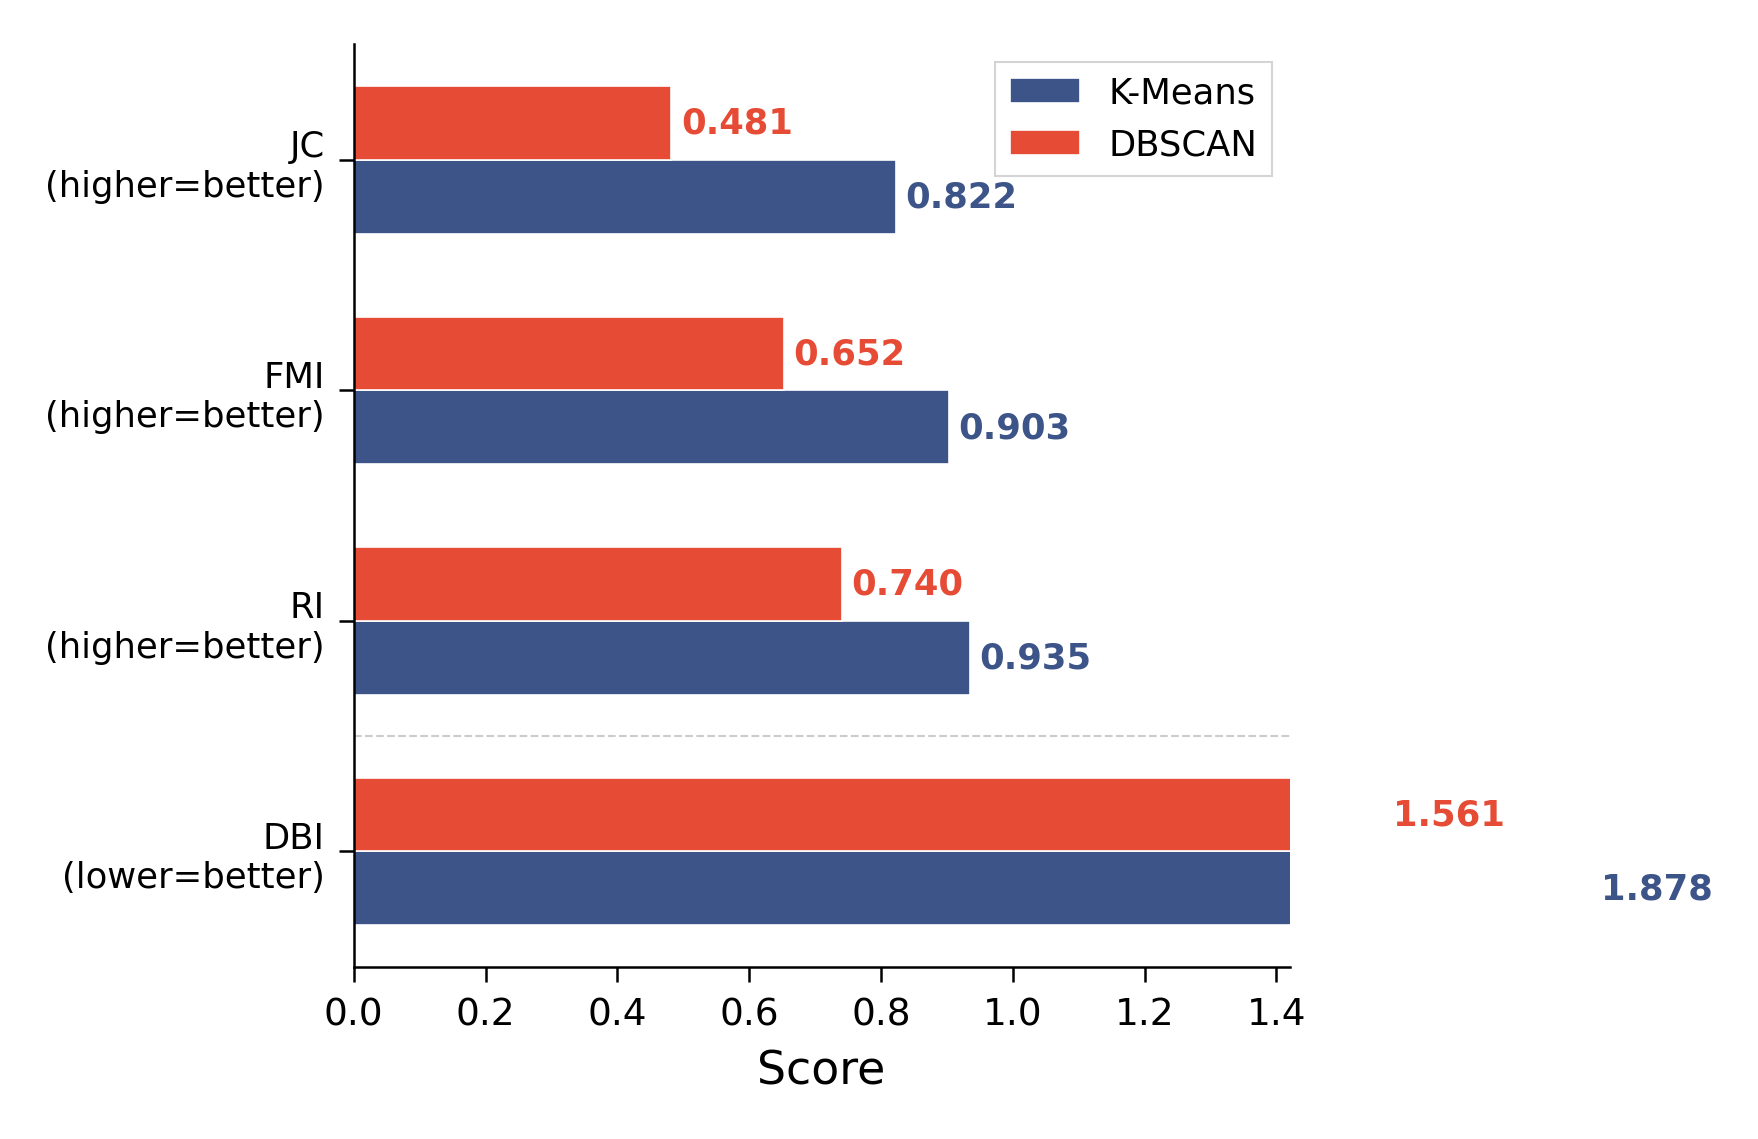
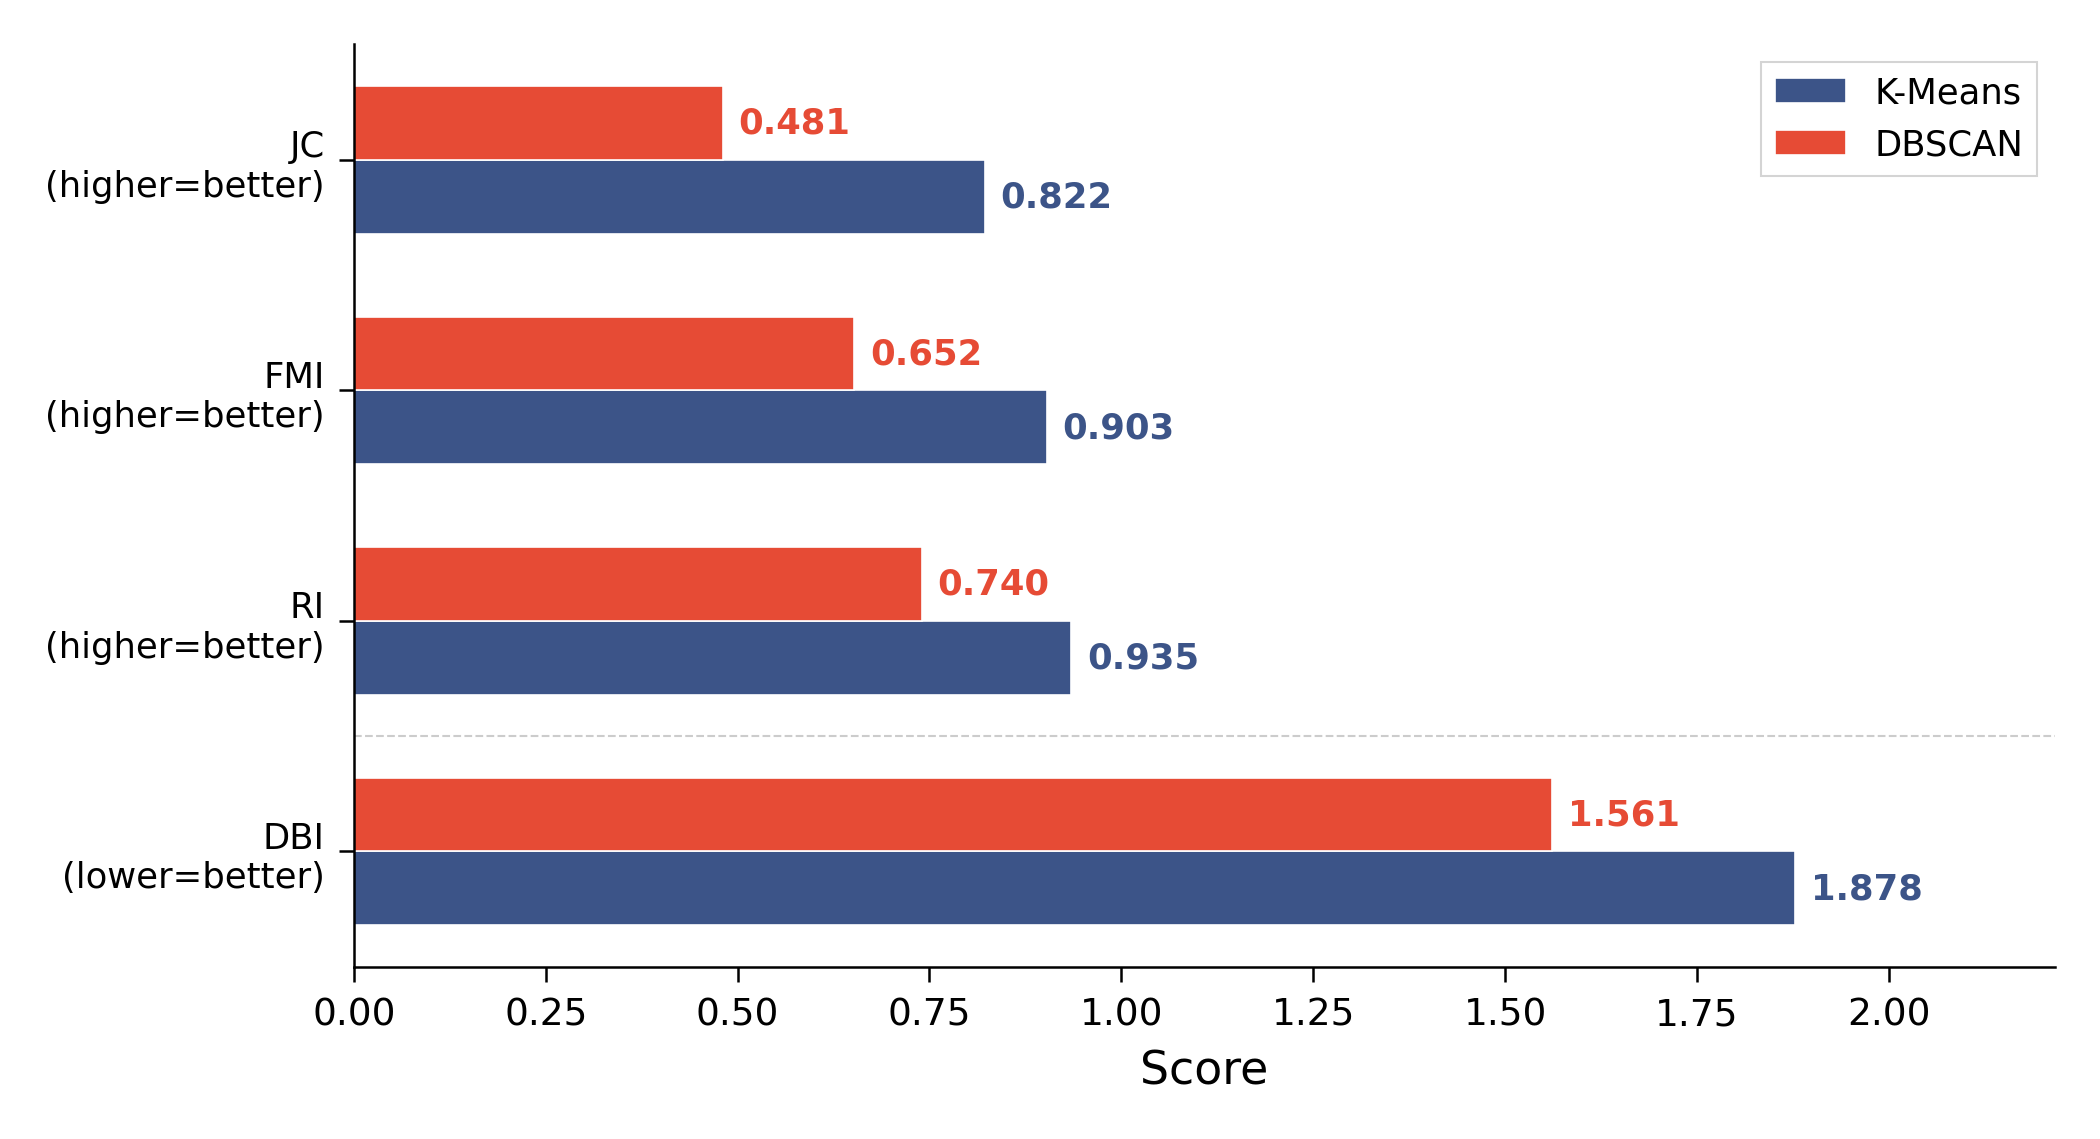
fix: 性能指标柱状图 xlim 自适应, DBI 条形不再被截断
https://claude.ai/code/session_01Lv2LunBRvHy72bFhoMpCZ9

diff --git a/实验4代码/experiment4_all.py b/实验4代码/experiment4_all.py
@@ -471,27 +471,26 @@ print('\n图片已保存: clustering_comparison_pca.png')
 all_names = ['JC', 'FMI', 'RI', 'DBI']
 km_vals = [metrics_km[m] for m in all_names]
 db_vals = [metrics_db[m] for m in all_names]
+max_val = max(max(km_vals), max(db_vals))
 
-fig, ax = plt.subplots(figsize=(6.5, 3.8))
+fig, ax = plt.subplots(figsize=(7, 3.8))
 y_pos = np.arange(len(all_names))
 h = 0.32
-c_km, c_db = NPG[3], NPG[0]  # 深蓝 vs 红
+c_km, c_db = NPG[3], NPG[0]
 
 bars_km = ax.barh(y_pos + h/2, km_vals, h, color=c_km, label='K-Means',
                    edgecolor='white', linewidth=0.4)
 bars_db = ax.barh(y_pos - h/2, db_vals, h, color=c_db, label='DBSCAN',
                    edgecolor='white', linewidth=0.4)
 for bar, val in zip(bars_km, km_vals):
-    ax.text(val + 0.015, bar.get_y() + bar.get_height()/2,
+    ax.text(val + 0.02, bar.get_y() + bar.get_height()/2,
             f'{val:.3f}', va='center', fontsize=8.5, color=c_km, fontweight='bold')
 for bar, val in zip(bars_db, db_vals):
-    ax.text(val + 0.015, bar.get_y() + bar.get_height()/2,
+    ax.text(val + 0.02, bar.get_y() + bar.get_height()/2,
             f'{val:.3f}', va='center', fontsize=8.5, color=c_db, fontweight='bold')
 
-ax.set_yticks(y_pos)
-ax.set_yticklabels(all_names)
 ax.set_xlabel('Score')
-ax.set_xlim(0, 1.42)
+ax.set_xlim(0, max_val * 1.18)
 ax.legend(frameon=True, fancybox=False, edgecolor='#d0d0d0',
           loc='upper right')
 
